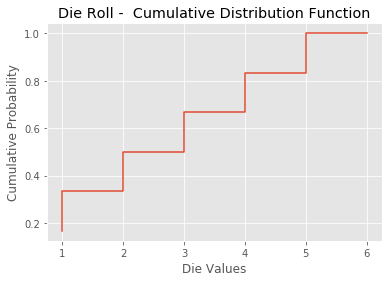
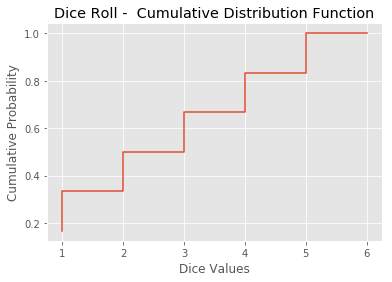
fix readme solution

Changed region(s): [[0.1224, 0.0284, 0.949, 0.0851], [0.4592, 0.9362, 0.6429, 0.9929]]

diff --git a/README.md b/README.md
@@ -90,10 +90,6 @@ plt.xlabel('Dice values')
 plt.ylabel('Cumulative Probabilities');
 ```
 
-
-![png](index_files/index_7_0.png)
-
-
 ## Level Up (optional)
 
 CDFs (and PMFss) can be calculated using built-in Numpy and Matplotlib methods. So we don't have create custom functions to calculate these. We can draw a histogram styled CDF as shown below using the following steps
@@ -110,8 +106,8 @@ import numpy as np
 sample = [1,2,3,4,5,6]
 hist = np.histogram(sample, bins=6, range=(1, 7), normed=True)
 plt.step(hist[1][:-1], np.cumsum(hist[0]))
-plt.title ("Die Roll -  Cumulative Distribution Function");
-plt.xlabel("Die Values")
+plt.title ("Dice Roll -  Cumulative Distribution Function");
+plt.xlabel("Dice Values")
 plt.ylabel("Cumulative Probability")
 plt.show()
 ```
